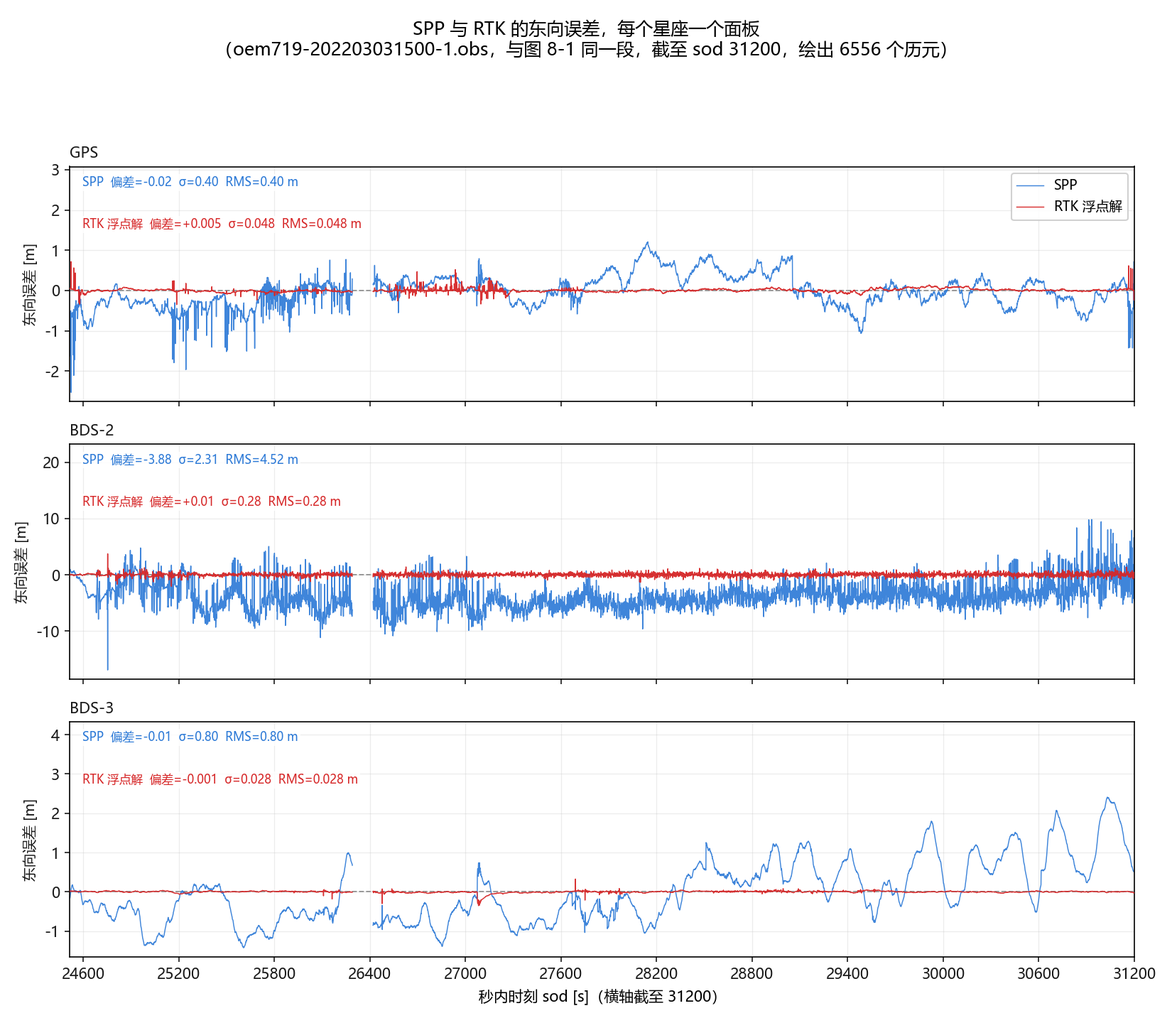
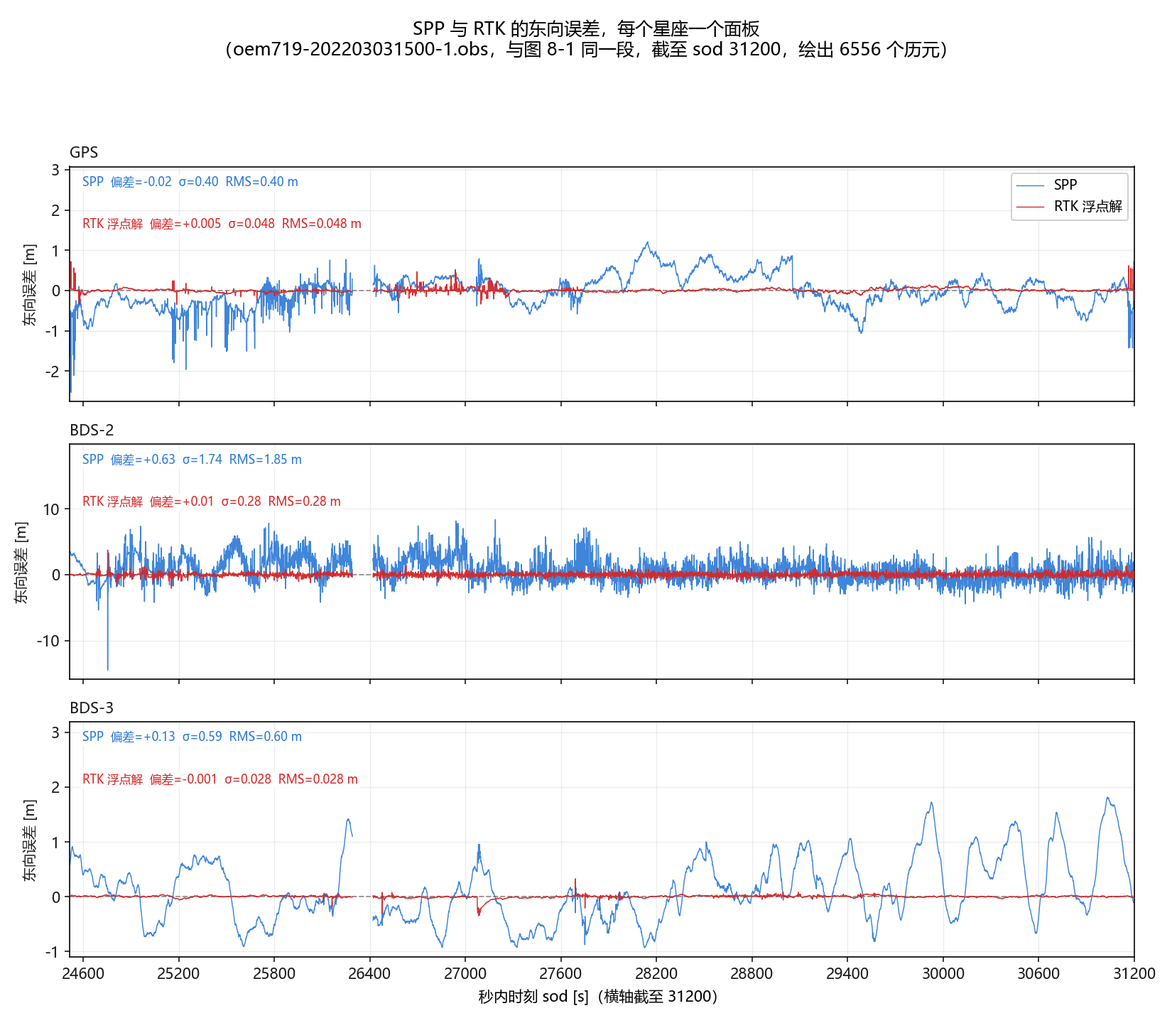
docs(rtk): put the main table and figure 8-1 on the OSB-corrected BDS solution
The §4 table's SPP column and the figure-8-1 family now use the configuration
the OSB work made possible: GPS on CODE precise products, BeiDou on the WHU/WUM
orbit, clock and bias set. BDS-2 SPP 3D RMS 13.502 -> 6.588 m, BDS-3
3.124 -> 2.530 m; the SPP/RTK ratios become 5.9x and 32x. The four PNGs are
regenerated from output/rtk-osb/full and are byte-identical across two runs.

The RTK column is unchanged in substance - a satellite bias cancels in the
double difference, so the two trees' RTK 3D RMS differ by less than 1 mm and
the per-epoch fix decisions are identical. §8 onward therefore keep the
broadcast-BDS tree and their numbers; only §4, figure 8-1 and its directional
siblings change. The reproduction section now defines both trees, and the
console/docstring notes that quoted the old SPP offsets and ratios are updated.

diff --git a/python/src/gnss_plot/figures.py b/python/src/gnss_plot/figures.py
@@ -923,11 +923,11 @@ def fig_rtk_spp_vs_rtk_ts(modes, out_png, rover="", lang="en"):
     * The RTK column is tied to that reference **by construction**:
       ``apps/rtk.cpp`` writes ``rtk: = xyzRover + dxyzRTK``, and the double
       difference resolves the rover relative to the base station, whose
-      position is whatever coordinate the solver was given. Its 0.026-0.028 m
+      position is whatever coordinate the solver was given. Its 0.01-0.03 m
       offset is the double difference's own residual (the zero baseline is a
       physical zero), not evidence that the method is accurate to 3 cm.
     * The SPP column is an absolute solution, and its offset is its own error
-      rather than a datum term (0.01 / 9.4 / 1.7 m on this data). The offset is
+      rather than a datum term (0.01 / 3.0 / 1.3 m on this data). The offset is
       annotated on every panel for exactly this reason: ``annot_rtk_vs_rms``
       prints it next to the RMS it is part of, so the gap between the two bands
       can be read as the offset it largely is.
@@ -936,10 +936,10 @@ def fig_rtk_spp_vs_rtk_ts(modes, out_png, rover="", lang="en"):
     comparison - the same two columns with their offsets removed, which is what
     answers "how repeatable is each solution", and where part of what is left
     turns out to be a slow drift rather than noise. Those numbers live in
-    section four's table and prose (16x / 9x / 35x centred, 3.7x / 5.1x / 3.3x
-    epoch-to-epoch), next to the 16x / 12x / 40x this panel annotates.
+    section four's table and prose (16x / 5.2x / 29x centred, 3.7x / 3.5x / 3.2x
+    epoch-to-epoch), next to the 16x / 5.9x / 32x this panel annotates.
 
-    **The axis is linear, and that is the point.** SPP's 3-D RMS is 2.8-13.5 m
+    **The axis is linear, and that is the point.** SPP's 3-D RMS is 2.5-6.6 m
     and RTK's is 0.08-1.13 m: the RTK band lies in the bottom few percent of the
     window while the SPP band runs across the top of it, and the reader can see
     both *how large* the SPP error is and that the differential solution is two
@@ -1516,7 +1516,7 @@ def fig_rtk_dd_cov_ratio_ts(panels, out_png, rover="", lang="en", threshold=3.0)
 # then BDS-3. An earlier attempt gave each series a lane of its own, one above
 # the other, and was rejected outright: "the whole point of a comparison figure
 # is that both curves are in the same picture". Two lanes on two scales cannot
-# be read against each other at all, and the distance between them - 12x to 40x,
+# be read against each other at all, and the distance between them - 5.9x to 32x,
 # and a ratio of two things that do not measure the same quantity - invites a
 # reading the chapter spends a section retracting. What the direction split buys
 # instead is the y scale: an ENU triple spans an order of magnitude (BDS-2's
@@ -1898,7 +1898,7 @@ def fig_rtk_spp_vs_rtk_dir_ts(modes, out_png, rover="", lang="en", direction=0):
     **The two series share one axis, undecimated, both drawn as thin unmarked
     lines** - the parent's own style, and the only one that reads at 6556 points
     a series. What a shared axis cannot carry is how far apart the two are,
-    12-40x on this data; each curve prints its own bias/sigma/RMS in its own
+    5.9-32x on this data; each curve prints its own bias/sigma/RMS in its own
     corner instead, and the parent figure and section four's table keep the
     ratio. Two lanes on two scales, one per series, were tried and rejected:
     that is no comparison at all.

diff --git a/python/src/gnss_plot/_strings.py b/python/src/gnss_plot/_strings.py
@@ -354,7 +354,7 @@ STRINGS: dict[str, dict[str, str]] = {
             "to 0.1 m, and near-constant over the run. Read sigma as the "
             "precision and the bias as that offset. This describes the RTK "
             "column only; the SPP column's offset is its own error, not a datum "
-            "term (0.01 / 9.4 / 1.7 m on this data — section 4).",
+            "term (0.01 / 3.0 / 1.3 m on this data — section 4).",
         "rpt_rtk_note_ratio":
             "Note 2 — the SPP/RTK ratio is NOT reference-independent. Both "
             "columns are measured against the same reference, but the RTK "
@@ -625,7 +625,7 @@ STRINGS: dict[str, dict[str, str]] = {
             "返回（不再迭代），流动站则迭代到 |dxyz| < 0.1 m 即判收敛。因此每个历元的结果 = "
             "该基准坐标 + 流动站最后一次未收敛的改正数，最大 0.1 m 且整段近似为常数。σ 才是"
             "精度，偏差应理解为这一偏移量。这一条只说 RTK 那一列；SPP 那一列的偏移是它自己的"
-            "误差，不是基准项（本数据 0.01 / 9.4 / 1.7 m，见第四节）。",
+            "误差，不是基准项（本数据 0.01 / 3.0 / 1.3 m，见第四节）。",
         "rpt_rtk_note_ratio":
             "说明 2 —— SPP/RTK 比值不是与参考坐标无关的数。两列都对同一个参考坐标度量，但 "
             "RTK 那一列是建立在这个基准站坐标之上的：双差把流动站解到基准站上去，所以那个坐标"

diff --git a/docs/rtk.md b/docs/rtk.md
@@ -235,27 +235,32 @@ ECEF 三轴的值，两者不可混用（见下方注记）。
 | 配置 | SPP 3D-RMS | **RTK 3D-RMS** | RTK σ (E, N, U) | \|d\| 50 / 95 / max | SPP→RTK |
 |---|---|---|---|---|---|
 | GPS L1/L2 | **2.844 m** | **0.177 m** | (0.048, 0.038, **0.164**) | 0.082 / 0.311 / 2.407 m | 16× |
-| 北斗二号 B1I/B2I | 13.502 m | **1.126 m** | (0.302, 0.304, **1.042**) | 0.672 / 2.231 / 11.991 m | 12× |
-| 北斗三号 B1I/B2a | 3.124 m | **0.079 m** | (0.026, 0.023, **0.065**) | 0.038 / 0.114 / 1.822 m | 40× |
+| 北斗二号 B1I/B2I | **6.588 m** | **1.126 m** | (0.302, 0.304, **1.041**) | 0.674 / 2.228 / 11.977 m | 5.9× |
+| 北斗三号 B1I/B2a | **2.530 m** | **0.079 m** | (0.026, 0.023, **0.065**) | 0.038 / 0.115 / 1.822 m | 32× |
+
+本表的 SPP 列：GPS 用 CODE 的精密轨道与钟差；北斗两行用 WHU/WUM 的精密轨道、钟差与
+OSB（同一天、同一分析中心）。RTK 列本身在两种配置下几乎相同（卫星偏置在双差里抵消，
+两棵树的 RTK 三维 RMS 差不到 1 mm）；§8 以后各节的表和图仍用广播北斗那棵树（见本节末
+2026-10-19 补记）。
 
 ![SPP 与 RTK 相对参考坐标的三维偏差时序](figures/vis_rtk_spp_vs_rtk_ts.png)
 
 **图 8-1**　SPP 与 RTK **相对参考坐标**的三维偏差时序，每个星座一个面板（上起 GPS、北斗
 二号、北斗三号），纵轴**线性（真实数值，全章不用对数轴）**、三个面板共用同一窗口。灰线为 SPP，红线为 RTK 浮点解，两条线
 都是**原始结果**（没有做任何扣除或缩放）；面板左上角给出各自的**三维 RMS 与偏移量**，
-最后一行是上表最右列那个比值。三条 SPP 带子落在 2.8–13.5 m，三条 RTK 带子落在 0.08–1.13 m。
+最后一行是上表最右列那个比值。三条 SPP 带子落在 2.5–6.6 m，三条 RTK 带子落在 0.08–1.13 m。
 
 **这张图画的是什么。** 横轴是当天秒内时刻 sod，**每个点是一个历元的三维位置偏差**
-|d| = √(E²+N²+U²)，坐标框架是站心 ENU、参考是基准站表头坐标——与上表同源，面板上的数字
+|d| = √(E²+N²+U²)，坐标框架是站心 ENU、参考是天线的真实坐标——与上表同源，面板上的数字
 就是 `rtk.error_stats` 的那几个返回值，不另算。**纵轴是线性的**，读的是真实米数：两列
-相差 12–40 倍，所以 RTK 那条线就压在坐标轴上，而**这个高度差本身就是这张图的结论**。
+相差 5.9–32 倍，所以 RTK 那条线就压在坐标轴上，而**这个高度差本身就是这张图的结论**。
 三个面板共用同一窗口同样是为了可比——各自缩放会让北斗二号的 1.13 m 与北斗三号的
 0.079 m 看起来一样。曲线被压扁时靠**每个面板左上角的数字**读数：两列的偏移与 RMS 都写在
 那里，高度只是形状。
 
 **横轴截到 sod 31200，不是 run 就到那里。** 这段数据一直记到 32578，最后 1378 个历元不画：
-那一截里单点解明显变差（GPS 的三维 RMS 由 2.84 m 涨到 4.54 m，北斗二号由 13.50 m 涨到
-16.48 m、最大 51 m），是主动截掉的，不是数据到那里就没了。**只截画出来的曲线，不截面板上
+那一截里单点解明显变差（GPS 的三维 RMS 由 2.84 m 涨到 4.54 m，北斗二号由 6.59 m 涨到
+8.24 m、最大 34 m，北斗三号由 2.53 m 涨到 4.42 m），是主动截掉的，不是数据到那里就没了。**只截画出来的曲线，不截面板上
 的数字**——bias / σ / RMS 仍是整个 7934 历元上的值，与第四节上表同源。横轴标签因此写明
 「横轴截至 31200」，免得一段短的曲线被读成一次短的 run；图 8-1b/c/d 也截在同一处。
 
@@ -265,45 +270,47 @@ ECEF 三轴的值，两者不可混用（见下方注记）。
    真值的做法与证据见本节末「参考坐标是怎么定出来的」。
 2. **RTK 那一列贴近零是构造性的**。`apps/rtk.cpp:866` 写的是 `rtk: = xyzRover + dxyzRTK`，
    而双差解就是把流动站对齐到**基准站**，基准站的位置在解算里就是我们交给它的那个坐标
-   ——也就是参考坐标本身。所以那 0.026–0.028 m 是**双差自身的残差**（零基线上真值确实是
+   ——也就是参考坐标本身。所以那 0.01–0.03 m 是**双差自身的残差**（零基线上真值确实是
    0），不是「RTK 精确到 3 cm」的证据。
 
 **「残余」不等于「噪声」。** 面板上的「偏移」是两列各自的均值离参考有多远（GPS 0.01 m、
-北斗二号 9.4 m、北斗三号 1.7 m），扣掉它再看同一批数据，回答的是另一个问题——
+北斗二号 3.0 m、北斗三号 1.3 m），扣掉它再看同一批数据，回答的是另一个问题——
 **各自的重复性有多好**；图 8-1 仍然只画原始结果，那一问的数这里只给数字：
 
-- 去均值后的残余 RMS：SPP 2.844 / 9.713 / 2.612 m，RTK 0.176 / 1.126 / 0.074 m，比值
-  **16× / 9× / 35×**；
+- 去均值后的残余 RMS：SPP 2.844 / 5.849 / 2.148 m，RTK 0.175 / 1.126 / 0.074 m，比值
+  **16× / 5.2× / 29×**；
 - 而残余里**又主要是漂移**：实测 GPS 的 SPP 垂直误差，把 2.2 小时分成 8 段、各段均值依次是
   −1.3、−1.6、−1.6、−3.0、−0.8、+0.5、+3.4、+4.3 m——**首尾差 5.6 m、起伏 7.3 m**（先降
   后升，不是单调漂）；而同一列逐历元的垂直 σ 只有 0.38 m。三个星座性质还各不相同：GPS 以
-  漂移为主，北斗二号是真噪声大（逐历元 6.1 m），北斗三号也是以漂移为主（逐历元 0.19 m）。
+  漂移为主（逐历元 0.56 m），北斗二号是真噪声大（逐历元 4.2 m），北斗三号也是以漂移为主
+  （逐历元 0.19 m）。
 
 把「逐历元的量」单独取出来（一次差分，漂移自动消掉），才是噪声对噪声：
 
 | | 原始 RMS 比（图上标的） | 去均值后残余比 | 逐历元（≈噪声）比 |
 |---|---|---|---|
 | GPS | 16× | 16× | **3.7×** |
-| 北斗二号 | 12× | 9× | **5.1×** |
-| 北斗三号 | 40× | 35× | **3.3×** |
+| 北斗二号 | 5.9× | 5.2× | **3.5×** |
+| 北斗三号 | 32× | 29× | **3.2×** |
 
-所以三个星座的**噪声**其实都在 3–5 倍这个量级，16× 与 40× 的悬殊主要来自漂移。这条 5.6 m
+所以三个星座的**噪声**其实都在 3.2–3.7 倍这个量级，16× 与 32× 的悬殊主要来自漂移。这条 5.6 m
 的慢漂移本身，也是第十三节那个未解偏移留下的最有用的线索：它是一个**慢变量**，与
 「常数偏差」需要不同的解释（对流层已被排除——第十三节）。
 
 四条结论：
 
-1. **三个比值得分清**，它们回答三个不同的问题：原始 RMS 比 12–40×（上表最右列、图 8-1
-   面板上标注的那个）说「离参考坐标差多少」；去均值后残余比 16 / 9 / 35× 说「去均值后残余
-   差多少」；逐历元比 3.7 / 5.1 / 3.3× 才是「噪声差多少」。三个数都比以前小，是因为这一节
-   现在用的是**打开对流层改正、GPS 用精密轨道与钟差**的那套配置（见本节末）——单点定位
-   已经到了它作为"纯码解"该有的水平，再往下要靠在载波上做文章（第八、十节）。
+1. **三个比值得分清**，它们回答三个不同的问题：原始 RMS 比 5.9–32×（上表最右列、图 8-1
+   面板上标注的那个）说「离参考坐标差多少」；去均值后残余比 16 / 5.2 / 29× 说「去均值后残余
+   差多少」；逐历元比 3.7 / 3.5 / 3.2× 才是「噪声差多少」。三个数都比以前小，是因为这一节
+   现在用的是**打开对流层改正、GPS 用 CODE 精密产品、北斗用 WUM 精密产品 + OSB** 的那套
+   配置（见本节末）——单点定位已经到了它作为"纯码解"该有的水平，再往下要靠在载波上做文章
+   （第八、十节）。
 2. **三种配置一律是垂直方向最差**：U 轴的 σ 都比水平两个方向大 2–4 倍
    （GPS 0.164 vs 0.048/0.038；北斗三号 0.065 vs 0.026/0.023）。
    这是卫星几何本身决定的——垂直方向没有可用的几何约束，三个配置都逃不掉。
 3. **北斗三号在三个方向上都最好**：中位误差 3.8 cm，比 GPS 的 8.2 cm 好一倍多，
    水平 σ 只有 26 mm / 23 mm。
-4. **北斗二号差一个数量级**：中位 0.672 m，最坏 12 m，U 轴 σ 达到 1.04 m。
+4. **北斗二号差一个数量级**：中位 0.674 m，最坏 11.98 m，U 轴 σ 达到 1.04 m。
 
 ![SPP 与 RTK 的东向误差，与图 8-1 同一段](figures/vis_rtk_spp_vs_rtk_dir_e_ts.png)
 
@@ -318,26 +325,26 @@ ECEF 三轴的值，两者不可混用（见下方注记）。
 **两条曲线仍然同面板、共用一根纵轴。** 蓝 = SPP，红 = RTK 浮点解。纵轴是**带符号的误差**：
 虚线是零，曲线在零上方就是在参考的**正方向那一侧**（东向图里是偏东、北向图里是偏北、天顶图
 里是偏上），不是"偏了 0.4 m"——父图 8-1 画的是三维误差的**模长**，带不了符号，**能读出符号
-是这三张图唯一多给的东西**。给两条各一根轴是不行的（拆分版的教训：那样"两者差 12–40 倍"这个
+是这三张图唯一多给的东西**。给两条各一根轴是不行的（拆分版的教训：那样"两者差 5.9–32 倍"这个
 量就再也读不出来，而那正是本章反复澄清的东西——一列绝对解、一列相对解，见第四节说明 2）。
 一根同轴担不动的正是这个倍数，于是交给**每条曲线自己左上角的 bias / σ / RMS**；比值仍在
 图 8-1、第四节的上表和报告里。
 
-**为什么按方向拆成三张。** 三个方向的量级差一个数量级——同一段里北斗二号的 SPP RMS 是东向
-4.52 m、北向 4.73 m、**天顶 10.99 m**；挤在同一根轴上，东向那条就被压成一条贴轴的线。拆开
+**为什么按方向拆成三张。** 三个方向的量级差几倍——同一段里北斗二号的 SPP RMS 是东向
+1.85 m、北向 1.35 m、**天顶 5.75 m**；挤在同一根轴上，东向那条就被压成一条贴轴的线。拆开
 之后每张各自展开一个方向，而三个星座仍然共用该方向的那根轴（这是要保留的比较）。
 
 | 与图 8-1 同段（截至 sod 31200，6556 个历元）的 RMS | 东向 | 北向 | 天顶 |
 |---|---|---|---|
 | GPS：SPP / RTK | 0.400 / 0.048 | 0.744 / 0.037 | 2.180 / 0.162 |
-| 北斗二号：SPP / RTK | 4.520 / 0.280 | 4.729 / 0.293 | 10.989 / 0.998 |
-| 北斗三号：SPP / RTK | 0.796 / 0.028 | 0.500 / 0.024 | 2.137 / 0.075 |
+| 北斗二号：SPP / RTK | 1.850 / 0.280 | 1.350 / 0.293 | 5.746 / 0.997 |
+| 北斗三号：SPP / RTK | 0.603 / 0.028 | 0.801 / 0.024 | 1.625 / 0.075 |
 
 （单位 m，与图上每条曲线左上角那一行同源、同口径。天顶那一列的**偏差**是这三张图里最显眼的
-东西：SPP 在 GPS 上是 −0.91 m、北斗二号 −7.68 m、北斗三号 +0.95 m，而同一列逐历元的 σ 只有
-1.98 / 7.86 / 1.91 m——第四节第 3 条说过，SPP 的残余里主要成分是漂移，而漂移是慢变量。而且
+东西：SPP 在 GPS 上是 −0.91 m、北斗二号 +2.47 m、北斗三号 +0.62 m，而同一列的 σ 是
+1.98 / 5.19 / 1.50 m——第四节第 3 条说过，SPP 的残余里主要成分是漂移，而漂移是慢变量。而且
 这个偏差在画的这一段里**穿过零**：GPS 从 sod 28000 前后的 −2.6 m 爬到末段的 +2.1 m，北斗三号
-从 −0.7 m 到 +3.5 m。画模长的图 8-1 读不出这个符号，这三张读得出。）
+从 −2.9 m 到 +4.2 m。画模长的图 8-1 读不出这个符号，这三张读得出。）
 
 **图 8-1 本身也截在同一处**（见它的图注）：父图画模长、这三张画带符号的分量，四张说的都是
 同一批历元。
@@ -359,14 +366,15 @@ ECEF 三轴的值，两者不可混用（见下方注记）。
 上表没有单列偏差，因为它在两列里的含义不同，合在一起讲会误导。
 
 **RTK 那一列**的 ENU 偏差是 GPS `(+0.005,-0.008,-0.024)`、北斗二号
-`(-0.004,-0.001,-0.026)`、北斗三号 `(-0.001,-0.001,-0.028)` 米——都在 3 cm 以内。但这个
+`(-0.004,-0.002,-0.011)`、北斗三号 `(-0.001,-0.001,-0.029)` 米——都在 3 cm 以内。但这个
 小是**结构性的**（见第 3.3 节与图 8-1 的图注：双差把流动站对齐到基准站，而基准站的位置
 就是解算时交给它的那个坐标，也就是参考坐标本身），所以**零基线数据上的小偏差不构成
 「这个模型没有系统差」的证据**。
 
 **SPP 那一列**的偏差是另一回事：ENU 上是 GPS `(-0.009,-0.001,+0.005)`、北斗二号
-`(-2.791,+4.317,-7.844)`、北斗三号 `(+0.273,+0.369,+1.651)` 米，模长
-**0.011 / 9.379 / 1.713 m**。**这才是上表「SPP 3D-RMS」那一列的主要成分**，见结论 1。
+`(+0.612,+0.325,+2.951)`、北斗三号 `(+0.251,+0.494,+1.217)` 米，模长
+**0.011 / 3.032 / 1.337 m**。**它是上表「SPP 3D-RMS」平方和里的偏差项**；扣掉它之后剩下的
+是散布，见上文的去均值 RMS。
 
 **因此「SPP/RTK 比值」不是与参考无关的指标。** 本文初稿写过「两列都对同一个基准站表头
 取差，基准偏差在比值里抵消，所以最右列才是无保留的结论」——那句话是错的。两列确实对齐
@@ -409,9 +417,9 @@ ECEF 三轴的值，两者不可混用（见下方注记）。
 通过 `rtk --base-xyz X,Y,Z` 交给解算（双差就是相对这个基准解的）。真值本身的不确定度
 由第 1 条界定在 **~1 m**。
 
-**这张表用的配置**：三种模式都加 `--trop`（对流层改正）与 `--base-xyz`；北斗两种另加
-`--bds-tgd`（TGD），**GPS 还用了精密轨道与钟差**（`--sp3`/`--clk`，CODE 2022-03-03 的产品）。
-三个杠杆各自的贡献（GPS，对同一批历元）：
+**这张表用的配置**：三种模式都加 `--trop`（对流层改正）与 `--base-xyz`；GPS 用 CODE 的
+精密轨道与钟差（`--sp3`/`--clk`）；**北斗两种用 WHU/WUM 的精密轨道、钟差与 OSB**
+（`--sp3`/`--clk`/`--osb`，同为 2022-03-03）。三个杠杆各自的贡献（GPS，对同一批历元）：
 
 | 配置 | 均值偏差 | 三维 RMS |
 |---|---|---|
@@ -420,17 +428,18 @@ ECEF 三轴的值，两者不可混用（见下方注记）。
 | ＋`--trop` | 1.04 m | 9.25 m |
 | ＋精密轨道与钟差 | **0.01 m** | **2.84 m** |
 
-**为什么 GPS 用精密产品而北斗没有**：手上的 CODE 产品（`COD21994.*`）不含北斗钟差，
-所以 bds2/bds3 只能留在广播星历上——它们的 SPP 那一列因此是"广播 + 对流层 + TGD"的结果
-（13.5 / 3.1 m），比 GPS 那 2.84 m 保守。**RTK 那一列基本不受这个区别影响**（双差把
-卫星端误差抵消掉了）——第五节里两种北斗一代与二代的十五倍差距在换配置前后都成立；
-要拿到北斗的精密解，需要 MGEX 版本的轨道与钟差（`COD0MGXFIN_…`）。
+**北斗现在也能用精密产品了**：CODE 的 `COD21994.*` 不含北斗，早年 bds2/bds3 只能留在
+广播星历上（13.5 / 3.1 m）。WHU/WUM 的 MGEX 产品有北斗，但它的钟差以 **C2I/C6I** 组合定
+基准，而程序观测的是 C2I/C7I 或 C2I/C5P——直接换会让北斗两列变差（下一段）。配上同一天、
+同一分析中心的 **OSB** 之后，两列降到 **6.59 / 2.53 m**，都优于广播。**RTK 那一列不受
+这个区别影响**（卫星偏置在双差里抵消；两棵树的结果差在毫米级）——第五节里两种北斗一代
+与二代的十五倍差距在换配置前后都成立。
 
 **2026-10-13 补：MGEX 产品下到了，但直接换进去北斗会更差——是 DCB，不是产品。**
 GFZ 的 MGEX 产品（`data/GBM0MGXRAP_20220620000_01D_05M_ORB.SP3` 与 `…_30S_CLK.CLK`，
 2022-03-03 = 第 062 天，SP3 里含 `C01…C60` 全部北斗）读入器直接认，不用改表头。实测 SPP 三维 RMS：
 
-| | 广播（现状） | GFZ 精密 |
+| | 广播 | GFZ 精密 |
 |---|---|---|
 | 北斗三号 | 3.124 m（偏差 1.713、散布 2.61） | **6.176 m**（3.534、**5.06**） |
 | 北斗二号 | 13.502 m（9.379、9.71） | **20.751 m**（12.143、**16.83**） |
@@ -448,10 +457,11 @@ GFZ 的北斗钟差按 **B1I/B3I 无电离层组合**定基准，广播钟差是
 但代码里**没有它的读入器**——读入 + 挂到逐卫星码观测上 + 测试，是一道习题的量级（见第十三节）。
 **在它做好之前，北斗那两列保持广播是对的**：广播 + TGD 至少自洽。
 
-**2026-10-19 补：OSB 读入器做好了，北斗精密产品通了。** 结论先说：同一套 WHU/WUM 产品的
-精密轨道 + 钟差 + OSB 下，北斗两列的 SPP 三维 RMS 从 **13.102 / 6.280 m**（只有精密轨道
-钟差、没有 OSB）降到 **6.588 / 2.530 m**（北斗二号 / 北斗三号），**都优于广播的
-13.502 / 3.124 m**；GPS 对照也从 2.824 m 降到 2.346 m。
+**2026-10-19 补：OSB 读入器做好了，北斗精密产品通了。** 第四节上表与图 8-1 家族已经
+改用这套配置（GPS 仍用 CODE，北斗用 WUM + OSB）；下面这些对照保留，用来看清每一步的贡献。
+结论先说：同一套 WHU/WUM 产品的精密轨道 + 钟差 + OSB 下，北斗两列的 SPP 三维 RMS 从
+**13.102 / 6.280 m**（只有精密轨道钟差、没有 OSB）降到 **6.588 / 2.530 m**（北斗二号 /
+北斗三号），**都优于广播的 13.502 / 3.124 m**；GPS 对照也从 2.824 m 降到 2.346 m。
 
 **GFZ 那份 OSB 为什么不能用。** 镜像上的 `GBM…_OSB.BIA` 只给**钟差基准信号**：GPS
 C1W/C2W、Galileo C1C/C5Q、**北斗只有 C2I/C6I**。程序观测的是 C2I+C7I（北斗二号）和
@@ -1364,26 +1374,28 @@ TRUE="-2267803.4464,5009342.4841,3220991.0095"
   2025 年数据上是 **1.06 m**（3-D RMS 4.94 m）；两台接收机用精密轨道与钟差各自解算，
   整段均值互差 **0.020 m**；广播解与精密解互差 **1.70 m**。用 `rtk --base-xyz <真值>`
   之后，SPP 三维 RMS 从 21.4 / 33.4 / 25.0 m 落到 **11.3 / 18.7 / 9.1 m**；再打开
-  `--trop` 与 GPS 的精密产品，就是第四节表里的 **2.844 / 13.502 / 3.124 m**。
+  `--trop`、GPS 的精密产品与北斗的 WUM+OSB，就是第四节表里的 **2.844 / 6.588 / 2.530 m**。
   **数据文件保持接收机报的原值不动**——字节锚点就是那样跑出来的，而"接收机报了个偏 25 m
   的坐标"本身是该留着的事实。
 - **SPP 那一列剩下的误差主要是它自己的慢漂移，不是常数。** 按 1/8 段取均值，GPS 的垂直
   误差八段依次是 −1.3、−1.6、−1.6、−3.0、−0.8、+0.5、+3.4、+4.3 m——**首尾差 5.6 m、
   起伏 7.3 m**，而同一列逐历元的垂直 σ 只有 0.38 m：所以「残余」主要是漂移而不是噪声。
-  这也正是「去均值后残余比 16× / 9× / 35×」与「逐历元比 3.7× / 5.1× / 3.3×」这两个数
+  这也正是「去均值后残余比 16× / 5.2× / 29×」与「逐历元比 3.7× / 3.5× / 3.2×」这两个数
   差得远的原因——后者才是噪声对噪声。**下一个该查的是这条漂移**：精密产品只能压掉它约
   一半（2025 年那套：3-D RMS 8.68 → 4.94 m），另一半还没有来源。
 - **`--trop` 对 SPP 那一列是实打实的收益。** 早先"补上对流层改正反而更差"的结论是拿错的
   基准量出来的，不成立：用真值衡量，加上它 SPP 三维 RMS 从 11.3 / 18.7 / 9.1 m 降到
-  **9.2 / 13.5 / 3.1 m**（GPS 再叠加精密轨道与钟差就是表中的 2.844 m），均值偏差从
+  **9.2 / 13.5 / 3.1 m**（GPS 再叠加 CODE 精密产品、北斗再叠加 WUM+OSB，就是表中的
+  2.844 / 6.588 / 2.530 m），均值偏差从
   7.1 / 5.5 / 4.1 m 降到 **1.0 / 9.4 / 1.7 m**（北斗二号那 9.4 m 是它自己的几何问题，
-  见第五节）。**本章的表与图一律用带 `--trop` 的配置**（第四到十一节同一口径）；
+  见第五节；再叠加精密产品与 OSB 后是 0.01 / 3.03 / 1.34 m，见第四节）。
+  **本章的表与图一律用带 `--trop` 的配置**（第四到十一节同一口径）；
   只有逐字节锚点那条测试跑的是不带它的命令（第七节）。
 - 零基线（见第四节末）：结论不能外推到普通基线。
 - 上一条顺带的推论：**在零基线上，「绝对解」的任何逐卫星误差都会被双差吃掉**，
   所以本章的 RTK 结果再准也**不能用来验证卫星轨道、钟差或传播改正**——
-  它验证的是相对几何。要验证绝对那一层，看 `spp:` 列（现在的 6.588 / 2.530 / 2.346 m
-  就是 OSB 改正后的绝对解结果），或者需要非零基线。
+  它验证的是相对几何。要验证绝对那一层，看 `spp:` 列（现在的 6.588 / 2.530 m 就是 OSB
+  改正后的北斗绝对解结果；GPS 仍用 CODE，2.844 m），或者需要非零基线。
 - BDS-2 与 BDS-3 的接收机钟差系统差与**卫星钟差基准**只做了一半：本节的三种配置
   各自都是单代，所以这个问题没暴露；跨代混解见第九节。
 - `SolverLSQ::getSolution` 原先在**解引用之后**才检查是否越界（空未知数集合会
@@ -1397,12 +1409,25 @@ TRUE="-2267803.4464,5009342.4841,3220991.0095"
 ```bash
 SP3="data/COD21994.EPH"   # CODE 精密轨道（不含北斗）
 CLK="data/COD21994_rnx3.CLK"   # 对应的精密钟差（RINEX 3.02）
+# 北斗的 WHU/WUM 三件套：必须同一天、同一分析中心。从镜像直连下载：
+#   https://data.bdsmart.cn/pub/product/gnss/WHU/2022/orbit/WUM0MGXRAP_20220620000_01D_05M_ORB.SP3.gz
+#   https://data.bdsmart.cn/pub/product/gnss/WHU/2022/clock/WUM0MGXRAP_20220620000_01D_30S_CLK.CLK.gz
+#   https://data.bdsmart.cn/pub/product/gnss/WHU/2022/bias/WUM0MGXRAP_20220620000_01D_01D_OSB.BIA.gz
+WSP3=data/WUM0MGXRAP_20220620000_01D_05M_ORB.SP3
+WCLK=data/WUM0MGXRAP_20220620000_01D_30S_CLK.CLK
+WOSB=data/WUM0MGXRAP_20220620000_01D_01D_OSB.BIA
 TRUE="-2267803.4464,5009342.4841,3220991.0095"
 # 构建
 scripts/build.sh
 
-# 树 1：单历元最小二乘（默认估计器），零基线、完整两小时、约 25 秒一个。
-# 带 --fix：它同时写出浮点解与固定解（同一批历元，两个文件），图 8-1…8-5 都来自这棵树。
+# 树 1a：第四节与图 8-1 家族的绝对解配置——GPS 用 CODE，北斗用 WUM + OSB。
+# 带 --fix：同时写出浮点解与固定解（同一批历元，两个文件）。
+./build/bin/rtk config/rtk.ini --sys gps  --fix --trop --sp3 $SP3  --clk $CLK  --base-xyz $TRUE --out-dir output/rtk-osb/full
+./build/bin/rtk config/rtk.ini --sys bds2 --fix --trop --sp3 $WSP3 --clk $WCLK --osb $WOSB --base-xyz $TRUE --out-dir output/rtk-osb/full
+./build/bin/rtk config/rtk.ini --sys bds3 --fix --trop --sp3 $WSP3 --clk $WCLK --osb $WOSB --base-xyz $TRUE --out-dir output/rtk-osb/full
+
+# 树 1b：§8 以后各节与图 8-2…8-5 用的 RTK 树——北斗仍走广播 + TGD。
+# 两颗树的 RTK 列差在毫米级（卫星偏置在双差里抵消），所以 §8 以后的数字没有改。
 ./build/bin/rtk config/rtk.ini --sys gps  --fix --trop --sp3 $SP3 --clk $CLK --base-xyz $TRUE --out-dir output/rtk/full
 ./build/bin/rtk config/rtk.ini --sys bds2 --fix --trop --bds-tgd --base-xyz $TRUE --out-dir output/rtk/full
 ./build/bin/rtk config/rtk.ini --sys bds3 --fix --trop --bds-tgd --base-xyz $TRUE --out-dir output/rtk/full
@@ -1430,16 +1455,9 @@ python tests/test_rtk_plot.py                # 出图那条路，不需要数据
 ./build/bin/rtk config/rtk.ini --sys bds2 --fix --trop --bds-tgd --base-xyz $TRUE --dd-cov --out-dir output/rtk-ddcov/full
 ./build/bin/rtk config/rtk.ini --sys bds3 --fix --trop --bds-tgd --base-xyz $TRUE --dd-cov --out-dir output/rtk-ddcov/full
 
-# 树 4：北斗精密产品 + OSB（第四节末 2026-10-19 的表）。
-# 三件套从 WHU 镜像下载（直连即可），必须同一天、同一分析中心：
-#   https://data.bdsmart.cn/pub/product/gnss/WHU/2022/orbit/WUM0MGXRAP_20220620000_01D_05M_ORB.SP3.gz
-#   https://data.bdsmart.cn/pub/product/gnss/WHU/2022/clock/WUM0MGXRAP_20220620000_01D_30S_CLK.CLK.gz
-#   https://data.bdsmart.cn/pub/product/gnss/WHU/2022/bias/WUM0MGXRAP_20220620000_01D_01D_OSB.BIA.gz
-WSP3=data/WUM0MGXRAP_20220620000_01D_05M_ORB.SP3
-WCLK=data/WUM0MGXRAP_20220620000_01D_30S_CLK.CLK
-WOSB=data/WUM0MGXRAP_20220620000_01D_01D_OSB.BIA
-
-# 三个配置各自一个兄弟目录（同名文件 + 递归搜索「长的赢」会混在一起）
+# 树 4：北斗精密产品 + OSB 的对照实验（第四节末 2026-10-19 的表）。
+# 三件套用上面定义的 WSP3/WCLK/WOSB。三个配置各自一个兄弟目录
+# （同名文件 + 递归搜索「长的赢」会混在一起）：
 ./build/bin/rtk config/rtk.ini --sys bds2 --fix --trop --bds-tgd --base-xyz $TRUE --out-dir output/rtk-osb/bcast
 ./build/bin/rtk config/rtk.ini --sys bds3 --fix --trop --bds-tgd --base-xyz $TRUE --out-dir output/rtk-osb/bcast
 ./build/bin/rtk config/rtk.ini --sys bds2 --fix --trop --sp3 $WSP3 --clk $WCLK --base-xyz $TRUE --out-dir output/rtk-osb/precise
@@ -1456,10 +1474,15 @@ WOSB=data/WUM0MGXRAP_20220620000_01D_01D_OSB.BIA
 python tests/test_sinex_bias.py --required
 python tests/test_rtk_osb.py
 
-# 出图与数字表（本文十六张图即由这一行生成，图片与文档同为中文）。
+# 出图与数字表。图 8-1 家族（含 b/c/d）来自树 1a，其余图来自树 1b/2/3。
 # --ref-xyz 是必须的：不给它，参考坐标就退回基准站表头（那个偏了 24.9 m 的值），图和表都对不上。
+# 1) 先生成第四节/图 8-1 家族（四张 vis_rtk_spp_vs_rtk* 是这一段的输出）：
+gnss rtk-plot --out-dir output/rtk-osb/full --ref-xyz="$TRUE" --lang zh --png-dir /tmp/figs-osb
+# 2) 再生成其余图（图 8-2…8-7）。这一步也会写 8-1 家族，用树 1b 的版本，
+#    所以不要把它的 8-1 四张图覆盖到 docs/figures/——仓库里的那四张来自第 1 步。
 gnss rtk-plot --out-dir output/rtk/full --kalman-out output/rtk-kalman/full \
-              --dd-cov-out output/rtk-ddcov/full --ref-xyz="$TRUE" --lang zh
+              --dd-cov-out output/rtk-ddcov/full --ref-xyz="$TRUE" --lang zh --png-dir /tmp/figs-rtk
+# 控制台打印的 SPP/RTK 表以树的 --out-dir 为准；两张表各自的 SPP 列不同（树 1a 是 OSB 后的）。
 ```
 
 示例程序（不需要数据，交互式）：

diff --git a/CHANGELOG.md b/CHANGELOG.md
@@ -42,9 +42,12 @@ Releases get their own section from here on.
   RMS within 1 mm, the fix/no-fix decision identical on every epoch, accepted
   fixed positions within 5 cm (BDS-2) and 9 mm (elsewhere) - because a satellite
   bias cancels in the double difference; the residual movement is the changed
-  SPP linearization point. `docs/rtk.md` §4 has the tables and the reasoning;
-  `tests/test_sinex_bias.py` (synthetic fixtures, in CI) and `test_rtk_osb.py`
-  (data-gated) lock the reader and the measured result.
+  SPP linearization point. The chapter's §4 table and the four figure-8-1
+  panels now use the WUM+OSB configuration; §8 onward keep the broadcast-BDS
+  tree because their double-difference results are unchanged. `docs/rtk.md` §4
+  has the tables and the reasoning; `tests/test_sinex_bias.py` (synthetic
+  fixtures, in CI) and `test_rtk_osb.py` (data-gated) lock the reader and the
+  measured result.
 
 - **Per-system and per-orbital-family code weighting for the RTK solution.**
   Six multipliers (`codeSigmaFactorGPS/BD2/BD3` and `...GEO/IGSO/MEO`, also

diff --git a/docs/cli.md b/docs/cli.md
@@ -169,7 +169,7 @@ the reference coordinate* and each panel annotates the offset alongside the RMS.
 Two things have to be said next to it: the RTK column is `xyzRover + dxyzRTK`
 against a base station that is itself defined by that reference coordinate, so
 its offset is structural rather than an accuracy claim; and the SPP column's
-offset (0.01 / 9.4 / 1.7 m on this data) is its own error, not a datum term.
+offset (0.01 / 3.0 / 1.3 m on this data) is its own error, not a datum term.
 `--ref-xyz` is what that reference is; omit it and it falls back to the base
 station's RINEX header, which on this equipment is 24.9 m from the antenna and
 makes both columns read ~25 m. The same two columns with the offsets removed —
